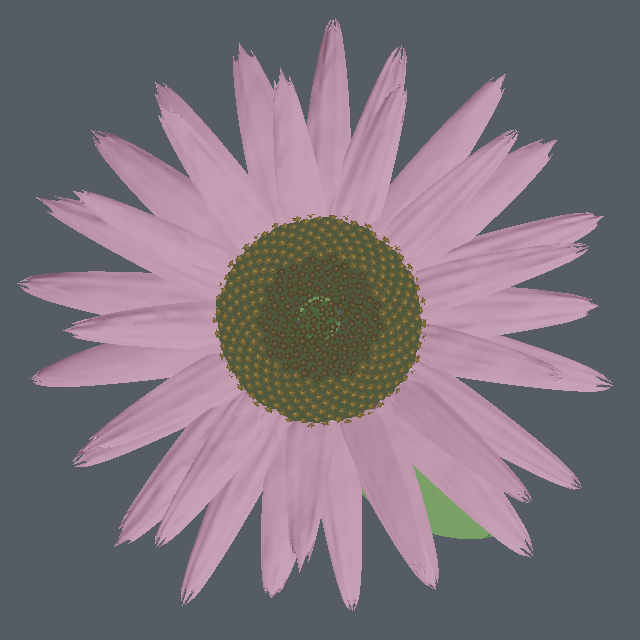
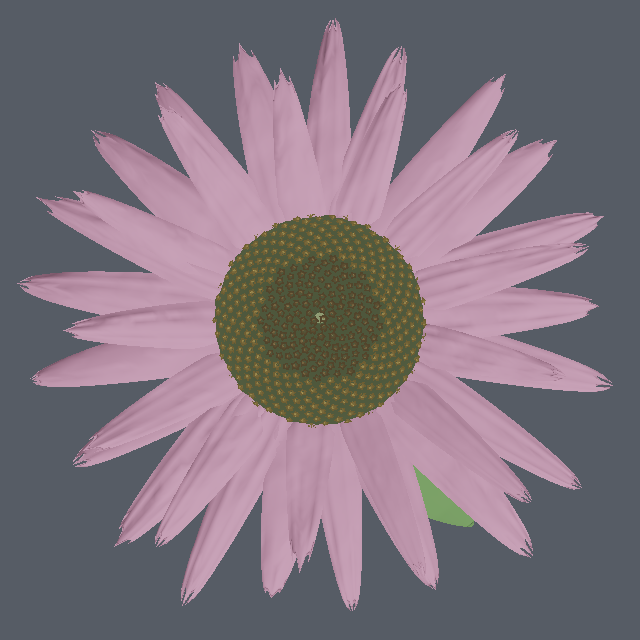
Close the hole in the middle of the flower head
The receptacle's radial profile started at 0.20 * discRadius, so the cushion
the disc florets stand on was an annulus, not a cap -- a 2.3mm hole punched
straight through the crown of the head. Disc florets are round and pack with
gaps between them, so they could never tile over it, and from above you saw
the sky through the middle of the flower.

Start the profile at r = 0 so the cap is closed, and take the height under the
disc from the same dome curve the floret instances are placed on, now hoisted
out as discDomeY(). Sharing that curve is the point: the cushion and the
florets standing on it cannot drift apart, and the receptacle no longer sat
half a millimetre below the bases it is meant to carry. Past the rim the
profile falls away into the reflexed bracts as before, meeting the dome with
zero slope so the two halves join smoothly. Four more rows to carry the
now-taller crown.

Rendering the head alone on a keyed background and flood-filling the outside,
enclosed see-through pixels over the disc go 14259 -> 0 straight down and
12210 -> 0 at 70 degrees. What remains at low angles is a handful of
single-pixel slivers between ray-petal tips out at the silhouette, unchanged
by this and unrelated.

Also fix the flower preview's leaves, which still used absolute attachment
heights from before the plant was rescaled and so hung above the top of the
stem, draping a leaf across the head in the one view that exists to check it.
[…]

diff --git a/src/geom/flower.js b/src/geom/flower.js
@@ -251,6 +251,15 @@ export const FLORET_INSTANCE_FLOATS = 8;
 const FI = { posX: 0, posY: 1, posZ: 2, scale: 3, nrmX: 4, nrmY: 5, nrmZ: 6, radius: 7 };
 
 /**
+ * Crown of the disc: height above the head plane as a function of the
+ * normalised radius rn = r / discRadius. Exported because the receptacle and
+ * the florets standing on it must read the same curve -- if they drift apart
+ * the cushion either floats above its florets or sinks away beneath them.
+ */
+export const discDomeY = (rn) =>
+  FLOWER.discDome * Math.pow(Math.max(0, 1 - rn * rn), 0.70);
+
+/**
  * Vogel's model: r = c*sqrt(n), theta = n * goldenAngle. The golden angle is
  * the only divergence that never lets florets fall into radial rows, which is
  * why every real capitulum shows the same interlocking Fibonacci spirals.
@@ -262,9 +271,7 @@ export function buildFloretInstances(seed = 5) {
   const N = FLOWER.floretCount;
   const Rd = FLOWER.discRadius;
   const data = new Float32Array(N * FLORET_INSTANCE_FLOATS);
-
-  // Dome the disc slightly; y falls off toward the rim.
-  const domeY = (rn) => FLOWER.discDome * Math.pow(Math.max(0, 1 - rn * rn), 0.70);
+  const domeY = discDomeY;
 
   for (let n = 0; n < N; n++) {
     const rn = Math.sqrt((n + 0.5) / N);          // uniform areal density
@@ -411,19 +418,33 @@ export function buildRayMesh(seed = 23) {
 export function buildReceptacleMesh() {
   const mb = new MeshBuilder();
   const Rd = FLOWER.discRadius, headY = FLOWER.stemHeight;
+  const RIM = 1.22;   // how far the bracts flare past the disc, in disc radii
+
   const surf = (u, v) => {
     const th = v * Math.PI * 2;
-    // A shallow bowl under the disc that flares into reflexed bracts.
-    const r = Rd * (0.20 + 1.02 * Math.sin(u * Math.PI * 0.5));
-    const y = headY + FLOWER.discDome * Math.pow(1 - u, 1.6) * 0.9
-      - Rd * 0.42 * Math.pow(u, 2.3)
-      + Rd * 0.035 * Math.cos(th * 13) * u;
+    // Radial profile of a closed cap: r = 0 at u = 0. It used to start at
+    // 0.20*Rd, which made the cushion an annulus with a 2.3mm hole punched
+    // through the crown. Disc florets are round and pack with gaps, so they
+    // could never tile over it -- you saw straight through the middle of the
+    // flower to the sky behind.
+    const r = Rd * RIM * Math.sin(u * Math.PI * 0.5);
+    const rn = r / Rd;
+
+    // Under the disc the cushion IS the dome the florets stand on, read from
+    // the same curve their instances are placed on, so the two cannot drift.
+    // Past the rim it falls away into the reflexed involucral bracts; `beyond`
+    // is zero at the rim with zero slope, so the two halves meet smoothly.
+    const beyond = Math.max(0, rn - 1) / (RIM - 1);
+    const y = headY + discDomeY(Math.min(1, rn))
+      - Rd * 0.42 * Math.pow(beyond, 1.4)
+      + Rd * 0.035 * Math.cos(th * 13) * beyond;
     return [Math.cos(th) * r, y, Math.sin(th) * r];
   };
+
   // axis 0: the receptacle is structural, not a lamina. Everything on the head
   // -- receptacle, florets, petal bases -- shares one frame at the stem tip and
   // must move as a single rigid body. Giving each part its own flutter phase is
   // what made the head warp and the disc florets lag behind the cup they sit in.
-  sampleSurface(mb, surf, 16, 33, { uv: (u, v) => [v * 6, u], axis: () => 0, stemHeight: 1 });
+  sampleSurface(mb, surf, 20, 33, { uv: (u, v) => [v * 6, u], axis: () => 0, stemHeight: 1 });
   return mb.finish();
 }
